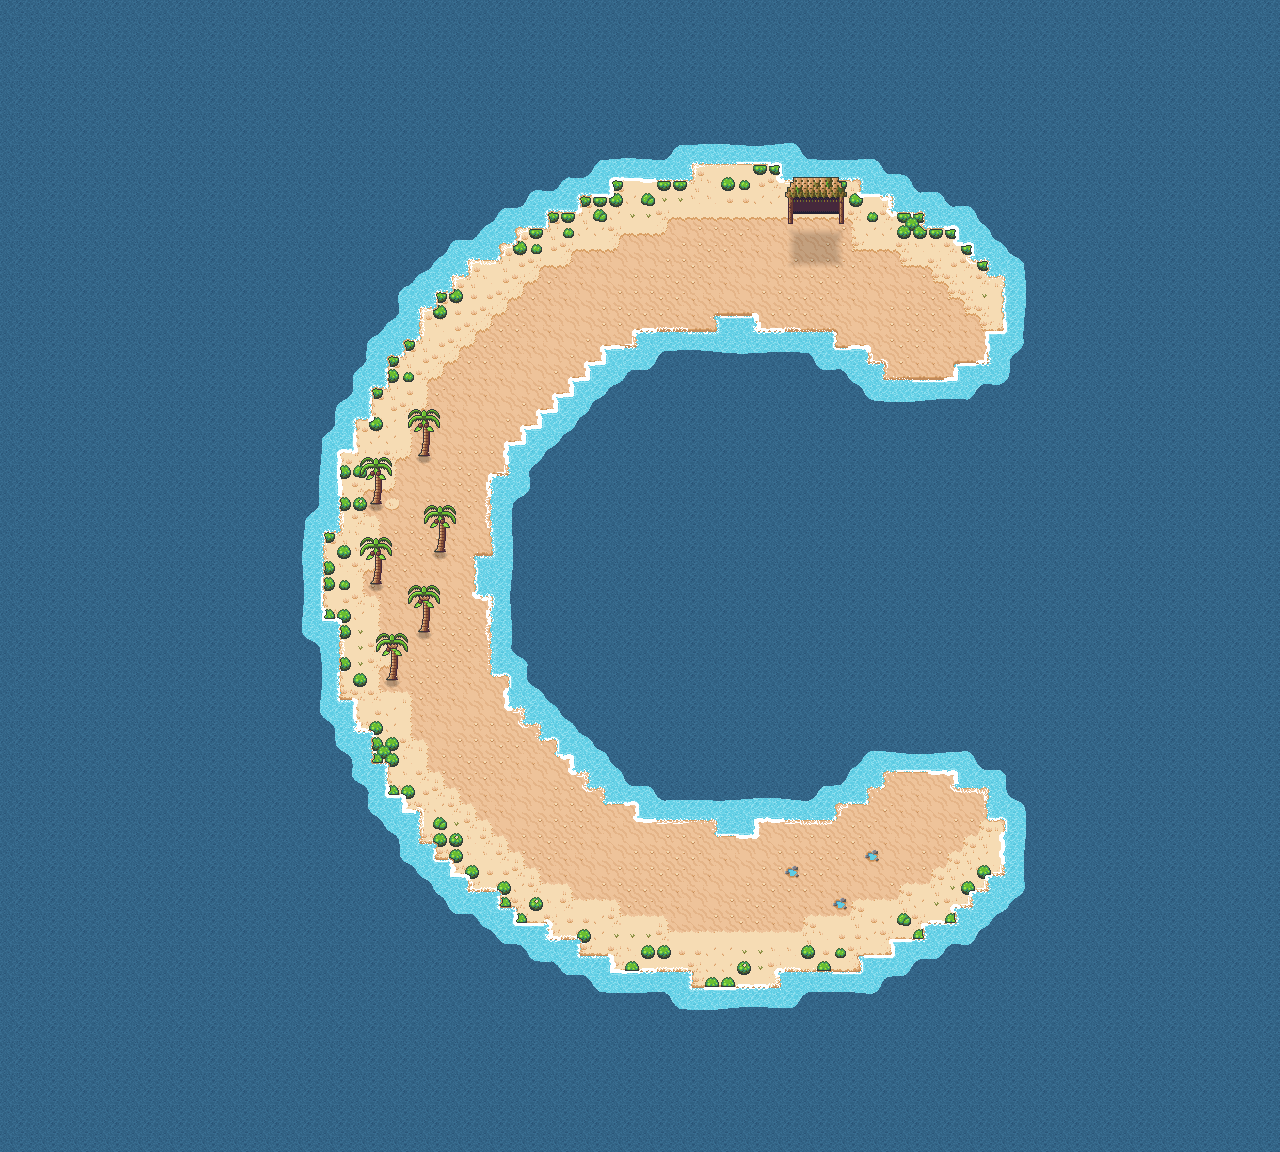
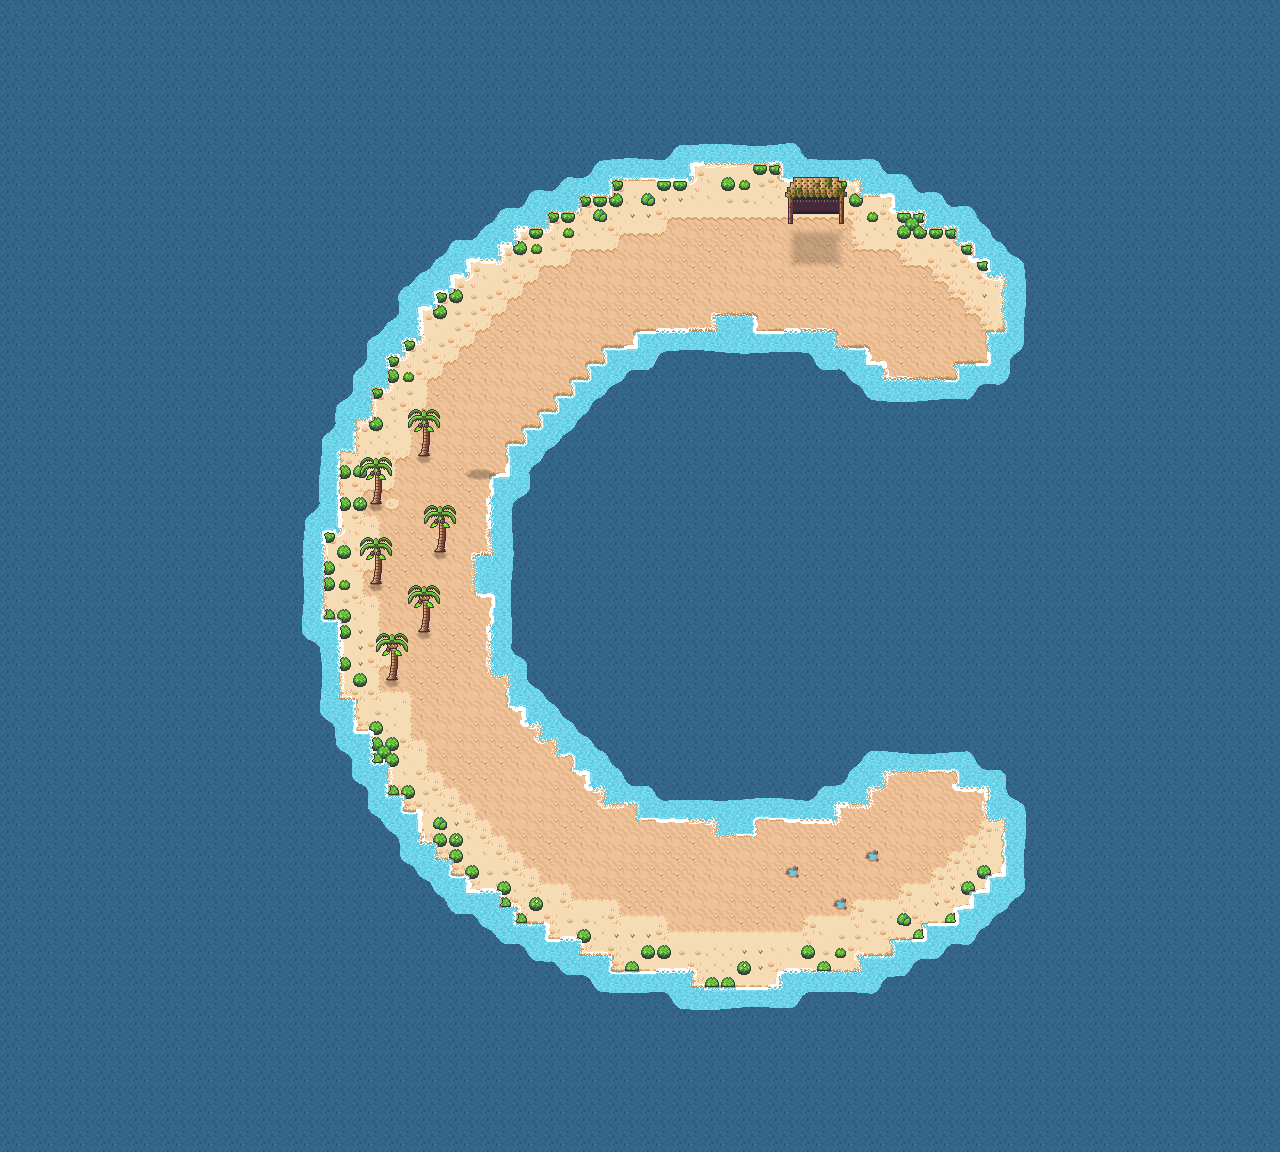
fix(art-pass): the raft site's shade lies on sand, west of its shore cell; captures again
On the site's own cell the decal lay over the foam and the water. Task 8.5
is unticked for its host-plus-client clause, as 10.3 is.

Changed region(s): [[0.2188, 0.125, 0.8125, 0.875]]

diff --git a/openspec/changes/art-pass/design.md b/openspec/changes/art-pass/design.md
@@ -470,7 +470,7 @@ The pure half of task 4.5 and the tests of 4.1 and 4.2, built on 2026-11-13. No 
 
 The view half of task 4.5 and task 4.3's test, built on 2026-11-13. No new idea is taken from `reference/`: the view applies D11–D15 and K39.
 
-- **K46 (tasks 4.3, 4.5; D11, D15, D22, T2, T12).** `TerrainView` as built: `game/scenes/art/terrain_view.tscn` with `terrain_view.gd`, instanced as `Terrain` in `sandbar_island.tscn`, `movement_playground.tscn` and `coop_playground.tscn` (CoopPlayground shares only the script, so its scene gets its own instance). Its scene holds the `Sea` (`Polygon2D`, z −40) and the six `TileMapLayer`s at D15's z values, relative to the view at 0; the island and playground scripts never name it. It joins `art_view` in `_init` and its scene, and reads its parent every frame: `terrain` (a `GridTerrain`), and when present `layout` (the id seeds variants and phases) and `built` (size, tide pools, palms); a grid with no layout uses the parent's name in snake case as its id and one past its largest cell as its size. It builds again when the parent's grid object changes or gains cells, which covers a layout set after instancing. So the playground fills its grid in `_init`, not `_ready`, because the child is ready first. Decals: the pool tile on each tide pool, the shade corner set on the grid's shaded cells (a corner counts when the four cells round it are shaded), then the palm's foot shade (row 4, column 0) on each palm cell that holds no decal yet. The sandbar has 21 decals and the coast cay 20, not T12's 22 and 21 (3 pools, 12 hut cells and 6 palms on the sandbar). Both materials are `resource_local_to_scene`, because two islands in one test, or a host and a client, each need their own masks. The build takes about 280 ms on the sandbar and 360 ms on the coast cay (dev laptop). `test_terrain_view.gd` prints both times and bounds them at 1.5 s. The rules are re-evaluated per cell, so a faster build caches the corner masks if loading ever stutters. *(2026-11-13, final-review fix 1.)* `_build_decals` also puts the wide shade under the raft site (`IslandLayout.raft_site`): the west half (atlas (1, 4)) on the cell beside it and the east half (2, 4) on its own cell, each only on a land cell that holds no decal, and the foot shade (0, 4) under the workbench when its cell holds none (the sandbar's workbench is in its shaded block already, so it adds none). The sandbar now has 23 decals and the coast cay 22.
+- **K46 (tasks 4.3, 4.5; D11, D15, D22, T2, T12).** `TerrainView` as built: `game/scenes/art/terrain_view.tscn` with `terrain_view.gd`, instanced as `Terrain` in `sandbar_island.tscn`, `movement_playground.tscn` and `coop_playground.tscn` (CoopPlayground shares only the script, so its scene gets its own instance). Its scene holds the `Sea` (`Polygon2D`, z −40) and the six `TileMapLayer`s at D15's z values, relative to the view at 0; the island and playground scripts never name it. It joins `art_view` in `_init` and its scene, and reads its parent every frame: `terrain` (a `GridTerrain`), and when present `layout` (the id seeds variants and phases) and `built` (size, tide pools, palms); a grid with no layout uses the parent's name in snake case as its id and one past its largest cell as its size. It builds again when the parent's grid object changes or gains cells, which covers a layout set after instancing. So the playground fills its grid in `_init`, not `_ready`, because the child is ready first. Decals: the pool tile on each tide pool, the shade corner set on the grid's shaded cells (a corner counts when the four cells round it are shaded), then the palm's foot shade (row 4, column 0) on each palm cell that holds no decal yet. The sandbar has 21 decals and the coast cay 20, not T12's 22 and 21 (3 pools, 12 hut cells and 6 palms on the sandbar). Both materials are `resource_local_to_scene`, because two islands in one test, or a host and a client, each need their own masks. The build takes about 280 ms on the sandbar and 360 ms on the coast cay (dev laptop). `test_terrain_view.gd` prints both times and bounds them at 1.5 s. The rules are re-evaluated per cell, so a faster build caches the corner masks if loading ever stutters. *(2026-11-13, final-review fix 1.)* `_build_decals` also puts the wide shade under the raft site (`IslandLayout.raft_site`): the west half (atlas (1, 4)) on the cell beside it and the east half (2, 4) on its own cell, each only on a land cell that holds no decal, and the foot shade (0, 4) under the workbench when its cell holds none (the sandbar's workbench is in its shaded block already, so it adds none). The sandbar now has 23 decals and the coast cay 22. Amended 2026-11-13 after looking at a capture: the wide shade under the raft site sits on the two cells west of the site's cell, not on the site's cell and its west neighbour. The site's cell is a shore cell, and the decal layer is above the shore layer, so a decal there lay over the foam and the water.
 - **K47 (task 4.5; D12, T4, K38, K39 (c)).** `scenes/art/sea/world_sea.gdshader`. The mask is two channels of one `RG8` texel per cell: r is 1 on shallows and brackish, g is 1 on brackish. It is sampled with linear filtering at the pixel's centre and cut at 0.5 plus a sway of ±0.14 made of two low sines of the position, moving at about 0.35 rad/s. A pixel is shallows when r is above the cut, and brackish when g is too. g is never above r, so between brackish and deep no shallows band appears, and the steps meet in a soft line that drifts slowly. The water is sampled twice: once drifting 5 px/s east, and once offset (13, 19) px and drifting (−2, 3) px/s. The lighter of the two shade indices picks the colour from the step's row of `water_ramps.png`, so every pixel is a ramp colour and the 32 px period does not show. It runs on the shader clock (`TIME`), which a paused tree does not stop, so the sea keeps moving under solo pause (D12). The ground means in `art_tuning.tres` come from the made art. Sand is `#ebbe94` and dune `#f5dab1`: each is the mean of its four row-4 picks, which every whole cell draws. Brush is `#549843`, the opaque texels of its full tile (246 of 256). Deep is `#386c8e`, shallows `#6dd3e8` and brackish `#489981`: each is that row's colours weighted by how often the lighter of two independent samples of the texture lands on each shade (0.058, 0.406, 0.344, 0.193), which is the drawn mean over time.
 - **K48 (task 4.5; D13, K37, K44).** `scenes/art/sea/shore.gdshader` on the `Shore` layer. A `TileMapLayer` draws its tiles in rendering quadrants, each a canvas item with its own origin, so the cell comes from `MODEL_MATRIX * VERTEX` minus the layer's canvas position. The view passes that position as the `origin` uniform every frame. The phase is read from `SeaMask.to_image(phase_bytes, size, 7)` (nearest) and decoded as `round(r × 7)`. The frame is `(floor(TIME × 6) + phase) mod 8`, and the shader adds frame × 16 px to the tile's u, which is exact because the foam source has no texture padding. Both shaders take modulate through `art_modulate`, and `test_palette_swap.gd` checks them.
 - **K49 (task 4.5; T1, T2, T16).** `DevIsland` (`dev_island.gd`, `.tscn`, `.uid`) and `DevIslandTerrain.build`, `draw`, `COLORS` and `SHADE_COLOR` are deleted; `TILE`, `HUT` and `fill` stay. `SandbarIsland` loses `_draw`, `POOL_COLOR` and its `queue_redraw`; `MovementPlayground._draw` keeps only the interactables' dots. `test_movement_playground.gd` now checks that the `Terrain` view's land layers are `TerrainArt`'s tiles for the playground's own grid, that it has foam, and that its depth mask is `SeaMask`'s. `game/tests/manual/capture_terrain.tscn` is the windowed capture task 4.6 can reuse: each island alone in a `SubViewport` of its size, four shore shots a quarter second apart, and a solo run at 2× through the shell.

diff --git a/openspec/changes/art-pass/tasks.md b/openspec/changes/art-pass/tasks.md
@@ -248,7 +248,7 @@ and with two hand checks: a **1-player check** (solo, offline, from the title, n
 - [x] 8.2 Write `game/tests/unit/test_lean_to.gd`: the lean-to's origin is the sandbar hut's back edge with its roof rising over the row north of it; a solo player on the hut's back row, its tarp and both driftwood sort in front of it on the shade decal (art-pass "Standing in the hut"); a solo player one tile north of the hut sorts behind the roof (art-pass "Behind the roof"); the coast cay's shaded cells get no lean-to; verify it fails. Done 2026-11-13: 4 solo tests through the game shell, reading the order with `DrawOrder`; 3 failed before task 8.4 placed the shelter (no `Shelter` node; commit 3670667), the coast cay's passed (design.md K89)
 - [x] 8.3 Make the structure art in `game/assets/art/structures/`: palm 32×48 with its crown nest point, coconut and nest overlays (trunk own work, crown from Scallywag frond clumps), lean-to 64×48, workbench 32×16, fire (4-frame flicker and embers), rain catcher (2), build-site marker, sign post 16×16 (Zelda-like wooden board; all four coast cay signs use it, design.md T17), raft site stages (3) and raft 64×32 (3); `shelter_art.tres` (the sandbar's lean-to); remap, rim, check; `License.txt` blocks and credits; verify the art checks pass. Done 2026-11-13: 13 PNGs in `game/assets/art/structures/` (palm 32×48, three coconut overlays and the nest, lean-to 64×48, workbench 32×16, fire 5 frames, rain catcher 2, stake 16×16, sign post 16×16, raft site 3 and raft 3 at 64×32), 4 `SpriteFrames`, `structure_art.tres`, `shelter_art.tres` (sandbar → `scenes/art/lean_to.tscn`), made by `tools/art/structures.py` from `structure_sheets.json` and 25 hand sources in `tools/art/fixes/structures/` (15 offline tests); `check.py` 0 problems on both trees; Zelda-like and Scallywag blocks and two `CREDITS.md` rows (design.md K80-K86)
 - [x] 8.4 Give `Palm` (its overlays inside its look, so `Palms` holds only `Palm` nodes; design.md T6), `Workbench` (its look added in `Workbench._init()`, as its `Interactable` is; design.md T7), `Fire`, `RainCatcher`, `BuildSite`, `Raft` and `IslandSign` their looks (`art_view`; palm origin at the trunk base; each reading its state every frame, never once in `_ready`; design.md T8); delete `DrinkSpot._draw`; have `SandbarIsland` place the shelter that `shelter_art.tres` names for its layout over `IslandLayout.hut_cells`; delete their `_draw` code; verify 8.1–8.2, `test_draw_order.gd` with the real palm, and `test_art_sim_invariance.gd` pass. Done 2026-11-13: one `StructureLook` scene (`scenes/art/structure_look.tscn`) under 7 structure kinds (5 scenes, and `Workbench._init` and `IslandSign._init`), reading its structure every frame; 8 `_draw`s deleted (palm, fire, raft, rain catcher, build site, workbench, island sign, drink spot); `SandbarIsland` places `Shelter` at (816, 224) on the sandbar; `test_structure_looks.gd` 9 solo tests (design.md K87's list on the real nodes), `test_structure_art.gd` 17, `test_lean_to.gd` 4, `test_draw_order.gd` 10 against the palm look, `test_creature_art.gd` 11 with the gull's feet on the palm look's nest point (K64), `test_art_sim_invariance.gd` 6, all passing (design.md K88, K89)
-- [x] 8.5 Run the import (twice), smoke run and GUT; 1-player check: climb a nest palm and watch the coconuts drop, stand in the lean-to beside the tarp, build and later put out a fire, see the rain catcher fill in a squall, build the raft through every stage and launch it, read a coast cay sign; host-plus-client check: the same on the client, recording in design.md that palm, fire and rain-catcher looks on a client follow its own (possibly stale) state until those states are synced, zero errors Done 2026-11-13: solo, the scripted playthrough `game/tests/manual/art_pass_run.gd` (2026-11-13: solo in a window, 131 checks passed and 2 failed with 0 error lines; a headless host with two clients, 17 of 17 on each with 0 error lines) climbed a nest palm, stood in the lean-to, built and put out a fire, filled the rain catcher in a squall, built the raft through every stage and launched it, and read a coast cay sign. On the clients only the structures' frames were read, not played; the record that palm, fire and rain-catcher looks on a client follow its own state until those states are synced is in design.md D18's risk note and K89.
+- [ ] 8.5 Run the import (twice), smoke run and GUT; 1-player check: climb a nest palm and watch the coconuts drop, stand in the lean-to beside the tarp, build and later put out a fire, see the rain catcher fill in a squall, build the raft through every stage and launch it, read a coast cay sign; host-plus-client check: the same on the client, recording in design.md that palm, fire and rain-catcher looks on a client follow its own (possibly stale) state until those states are synced, zero errors
 
 ## 9. Crossing
 
@@ -267,6 +267,7 @@ and with two hand checks: a **1-player check** (solo, offline, from the title, n
 
 - Left open by the playthrough of 2026-11-13 (`art_pass_run.gd`), none of it in the art:
   - Task 6.5 is unticked for one clause, "a shoo works": at a nest palm the palm's `[E] Trepar` prompt wins over the perched gull's shoo prompt, because both sit at the trunk base (design.md K9), and the gull swoops 2.0 s into the 2 s climb hold, so a player cannot shoo it first. Everything else of 6.5 passes, solo and on a client. This is interact-prompt priority, for a `creatures-ai` or `inventory-hud` follow-up.
+  - Task 8.5 is unticked for its host-plus-client clause: solo, the playthrough climbed a nest palm, stood in the lean-to, built and put out a fire, filled the rain catcher in a squall, built the raft through every stage and launched it, and read a coast cay sign, all passing; on the clients only the structures' frames were read, the same things were not played there. The record the task asks for (palm, fire and rain-catcher looks on a client follow its own state until those states are synced) is in design.md D18's risk note and K89.
   - Task 10.3 is unticked for one clause, "the same route": a host and two clients ran through the shell with one client rejoining mid-crossing and zero error lines in all three logs, but the clients did not travel on to the coast cay.
   - The foam check at night fails on one sandbar shore cell, (47, 19); by day it passes. The capture shows the foam there dimmed by the night tint, so the check's colour threshold is the likely cause; confirm before changing art.
   - `IslandSign` never sets its `prompt_id`, so its prompt reads `[E]` with no verb although `hud_text.tres` has "Leer"; and its speech bubble is hard to read at 1x over sand.
